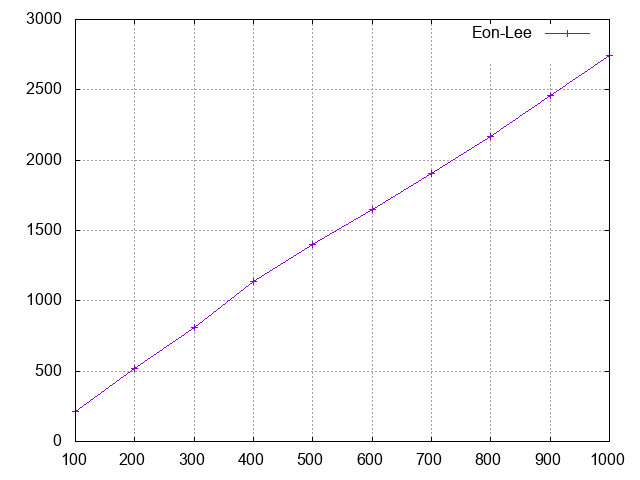
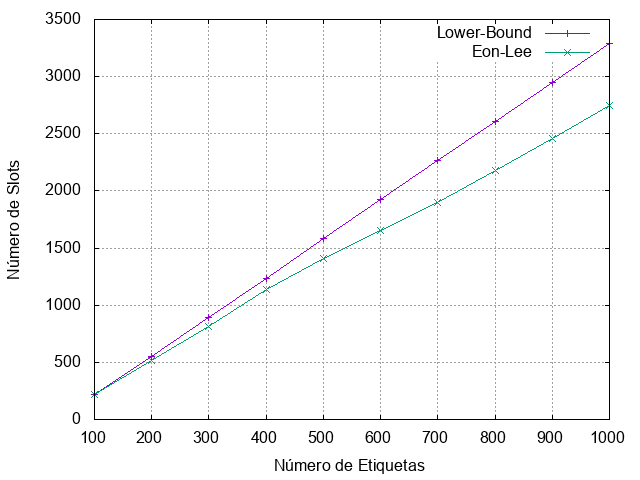
adicionando label nos eixos dos graficos

diff --git a/main.cpp b/main.cpp
@@ -175,10 +175,10 @@ inislots;
     tempo.close();
 
     // gerar graficos
-    string comando1 = "gnuplot -c run-gnuplot.gp slots.png slots.dat " + to_string(num);
-    string comando2 = "gnuplot -c run-gnuplot.gp slotsvazios.png slotsvazios.dat " + to_string(num);
-    string comando3 = "gnuplot -c run-gnuplot.gp slotscolisao.png slotscolisao.dat " + to_string(num);
-    string comando4 = "gnuplot -c run-gnuplot.gp tempo.png tempo.dat " + to_string(num);
+    string comando1 = "gnuplot -c run-gnuplot.gp slots.png slots.dat \"Número de Slots\" " + to_string(num);
+    string comando2 = "gnuplot -c run-gnuplot.gp slotsvazios.png slotsvazios.dat \"Número de Slots Vazios\" " + to_string(num);
+    string comando3 = "gnuplot -c run-gnuplot.gp slotscolisao.png slotscolisao.dat \"Número de Slots em Colisão\" " + to_string(num);
+    string comando4 = "gnuplot -c run-gnuplot.gp tempo.png tempo.dat \"Tempo de execução (ms)\" " + to_string(num);
     
     system(comando1.c_str());
     system(comando2.c_str());
